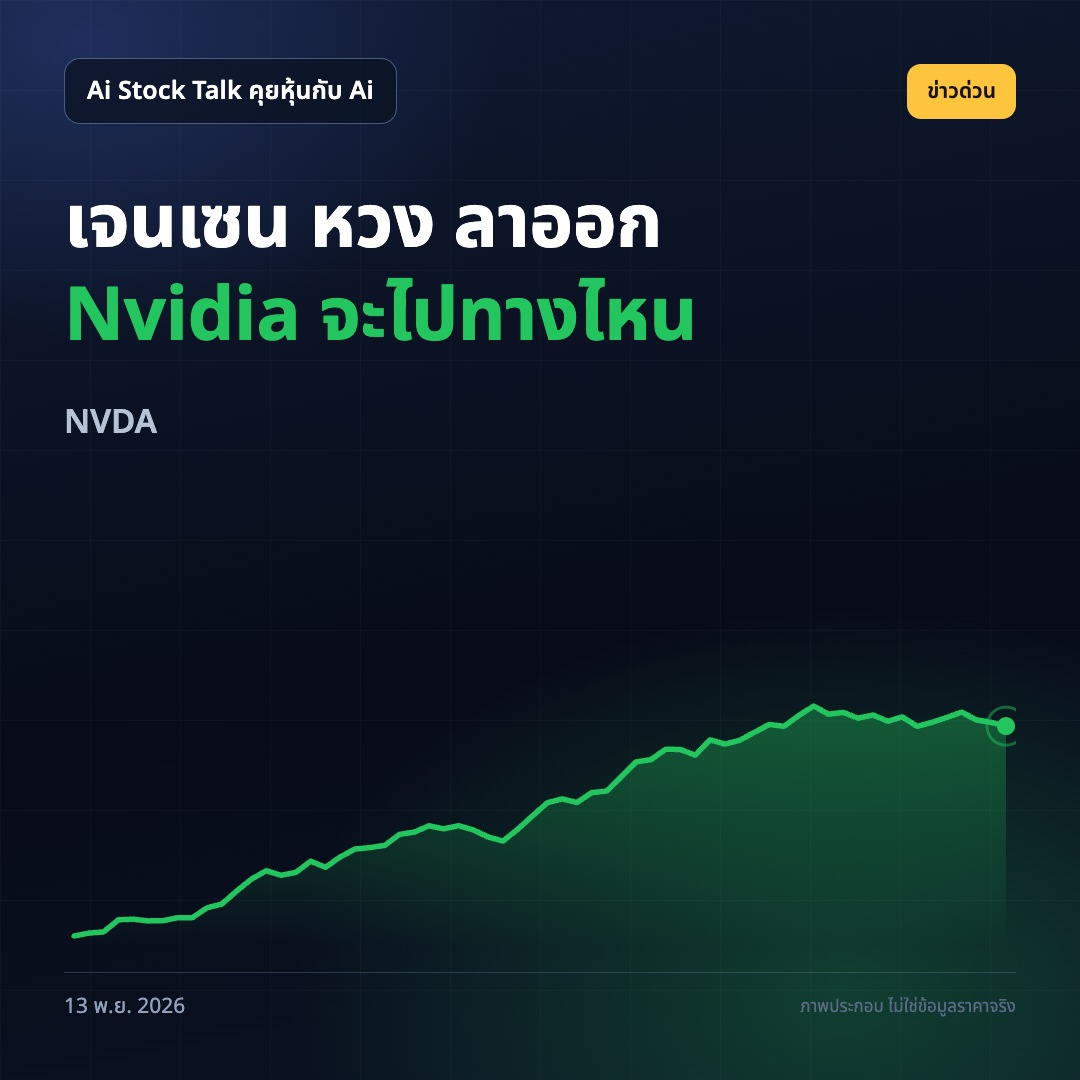
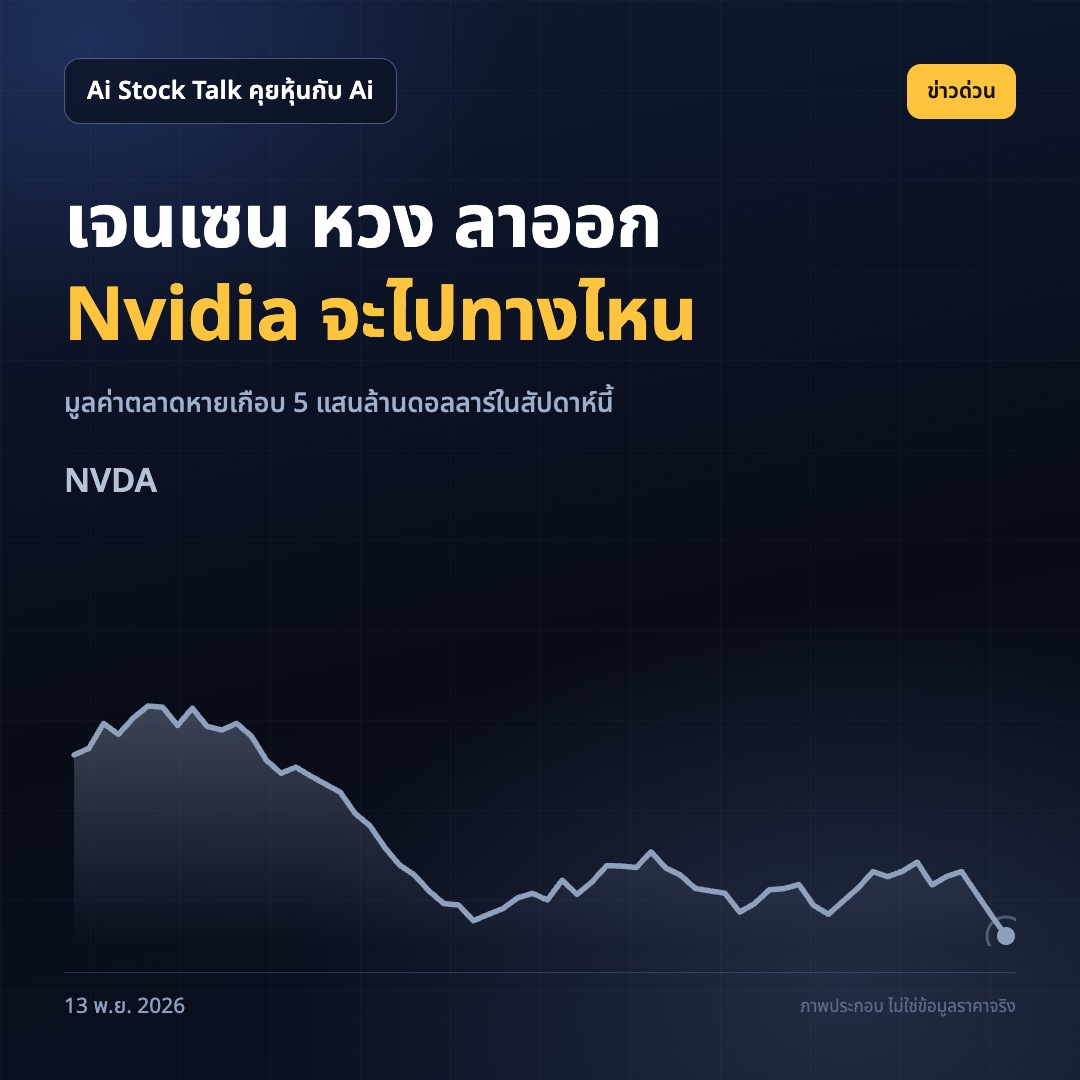
radar: 2026-11-14

diff --git a/docs/2026-11-14.html b/docs/2026-11-14.html
@@ -1,0 +1,73 @@
+<!doctype html>
+<html lang="th"><head>
+<meta charset="utf-8">
+<meta name="viewport" content="width=device-width,initial-scale=1">
+<title>Ai Stock Talk คุยหุ้นกับ Ai — 14 พ.ย. 2026</title>
+<meta name="description" content="Horizon AI News Radar — สรุปข่าว AI/เทคโนโลยี/การเงิน ภาษาไทยรายวัน">
+<meta property="og:title" content="Ai Stock Talk คุยหุ้นกับ Ai — 14 พ.ย. 2026">
+<meta property="og:description" content="สรุปข่าว AI/Tech/Finance ภาษาไทยรายวัน">
+<meta property="og:image" content="https://tstevy3a.github.io/horizon-ai-radar/img/cover-2026-11-14.jpg">
+<link rel="stylesheet" href="assets/style.css">
+</head><body><div class="wrap">
+<header class="top">
+  <a href="index.html" style="color:#fff;font-weight:700;font-size:16px">Horizon AI News Radar</a>
+  <span class="badge">รายวัน</span>
+</header>
+<h1>Ai Stock Talk คุยหุ้นกับ Ai — 14 พ.ย. 2026</h1>
+<p class="meta">เผยแพร่ 2026-11-14</p>
+<img class="cover" src="img/cover-2026-11-14.jpg" alt="ภาพปกข่าว 2026-11-14">
+<article><h2>1. หุ้น Nvidia ลงต่อเนื่อง 6 สัปดาห์</h2>
+<p><img alt="cover" src="img/post-1-cover-2026-11-14.jpg" /></p>
+<p>Nvidia ลงต่อ 6 สัปดาห์ มูลค่าตลาดหาย 5.73 แสนล้านดอลลาร์ในสัปดาห์เดียว
+นี่เป็นการปรับลงรายสัปดาห์ต่อเนื่องยาวนานที่สุดของหุ้นนับตั้งแต่ปี 2012 ขณะที่ข่าวเจนเซน หวง ลาออกจากตำแหน่งซีอีโอเพิ่มความกังวลให้ตลาด
+ตัวเลขมูลค่าที่หายไปสะท้อนแรงขายหุ้นผู้นำด้านชิป AI แต่ข้อมูลในข่าวยังไม่บอกว่าราคาหุ้นจะหยุดลงตรงไหน
+ทำไมต้องสน: คนไทยที่ถือหุ้นสหรัฐหรือกองทุนที่มี Nvidia ควรดูว่าสัดส่วนการลงทุนยังตรงกับความเสี่ยงที่รับไหวหรือไม่
+ถ้าคุณถือ Nvidia อยู่ ข่าวไหนกระทบการตัดสินใจมากกว่า ระยะเวลาที่หุ้นลงต่อเนื่องหรือการเปลี่ยนซีอีโอ?
+ที่มา: https://www.marketwatch.com/story/nvidias-stock-is-on-a-losing-streak-not-seen-in-14-years-what-comes-next-a07e801e?mod=mw_rss_topstories https://www.cnbc.com/2026/11/13/nvidia-stock-jensen-affair-ai.html</p>
+<h1>หุ้นสหรัฐ #เอ็นวิเดีย #หุ้นเอไอ</h1>
+<h2>2. สหรัฐสั่งหยุดเที่ยวบินทั่วประเทศหลังระบบสื่อสารขัดข้อง</h2>
+<p><img alt="cover" src="img/post-2-cover-2026-11-14.jpg" /></p>
+<p>เที่ยวบินสหรัฐล่าช้า 10,494 เที่ยว หลัง FAA สั่งหยุดบินขึ้น
+FAA สั่งระงับการบินขึ้นทั่วประเทศด้วยเหตุระบบโทรคมนาคมขัดข้อง ส่วนเครื่องบินที่อยู่กลางอากาศยังลงจอดได้ ตามข้อมูลที่รายงานในช่วงเกิดเหตุ มีเที่ยวบินถูกยกเลิกอีก 3,396 เที่ยว
+หน่วยงานสหรัฐระบุว่าไม่มีข้อบ่งชี้ว่าเป็นการโจมตี ขณะนี้ข้อมูลที่ให้มายังไม่ชี้ว่าระบบ AI จัดการจราจรทางอากาศเป็นต้นเหตุ
+ทำไมต้องสน: เหตุนี้แสดงให้เห็นว่าปัญหาระบบสื่อสารเพียงจุดเดียวอาจกระทบการเดินทางวงกว้าง ผู้ถือหุ้นธุรกิจการบินและท่องเที่ยวควรติดตามผลต่อเที่ยวบิน
+คุณคิดว่าหน่วยงานควรเปิดเผยรายละเอียดความขัดข้องอะไรเป็นอันดับแรก?
+ที่มา: https://www.theverge.com/news/1033489/faa-ground-stop https://arstechnica.com/tech-policy/2026/11/faa-orders-third-nationwide-ground-stop-in-its-history/</p>
+<h1>ข่าวเทคโนโลยี #การบิน #หุ้นสหรัฐ</h1>
+<h2>3. การลาออกของเจนเซน หวง เขย่าการลงทุนในสตาร์ตอัป AI</h2>
+<p><img alt="cover" src="img/post-3-cover-2026-11-14.jpg" /></p>
+<p>Nvidia เคยลงเงินหลายหมื่นล้านดอลลาร์ในสตาร์ตอัป AI
+หลังเจนเซน หวง ลาออกจากตำแหน่งซีอีโอ ผู้ก่อตั้งสตาร์ตอัปและนักลงทุนร่วมทุนเริ่มเตรียมรับความเป็นไปได้ว่าเงินลงทุนจาก Nvidia อาจลดลง
+รายงานระบุว่าในช่วงที่หวงบริหาร บริษัททุ่มเงินหลายหมื่นล้านดอลลาร์ให้ธุรกิจ AI แต่ยังไม่มีตัวเลขยืนยันว่าแผนลงทุนหลังเปลี่ยนผู้นำจะลดลงเท่าใด
+ทำไมต้องสน: หาก Nvidia เปลี่ยนวิธีลงทุน บริษัท AI ที่พึ่งเงินทุนก้อนใหญ่ย่อมต้องประเมินแผนใหม่ และผู้ถือหุ้น Nvidia ควรจับตาว่าผู้บริหารชุดต่อไปจะใช้เงินอย่างไร
+คุณอยากเห็น Nvidia ทุ่มเงินให้สตาร์ตอัปต่อ หรือให้ความสำคัญกับธุรกิจชิปของตัวเองมากกว่า?
+ที่มา: https://techcrunch.com/2026/11/13/jensen-huangs-departure-blasts-big-hole-in-ai-startup-funding-vcs-and-founders-say/</p>
+<h1>เอ็นวิเดีย #สตาร์ตอัปเอไอ #หุ้นเทคโนโลยี</h1>
+<h2>4. บิตคอยน์ต่ำกว่า 69,000 ดอลลาร์ ท่ามกลางคำถามเรื่องเงินไหลไปหุ้นใหม่</h2>
+<p><img alt="cover" src="img/post-4-cover-2026-11-14.jpg" /></p>
+<p>บิตคอยน์ต่ำกว่า 69,000 ดอลลาร์
+รายงานตั้งข้อสังเกตว่า นักลงทุนบางส่วนอาจขายสินทรัพย์คริปโตเพื่อเตรียมเงินสำหรับการเสนอขายหุ้นของ Anthropic ซึ่งยังเป็นเพียงความเป็นไปได้
+ข้อมูลที่ให้มาไม่ได้ยืนยันว่ามีการขายบิตคอยน์เพื่อซื้อหุ้นดังกล่าวจริง และไม่ได้ระบุว่าการเสนอขายหุ้นจะเกิดขึ้นเมื่อใด
+ทำไมต้องสน: คนไทยที่ถือทั้งคริปโตและหุ้นเทคควรแยกการเคลื่อนไหวของราคาออกจากคำอธิบายที่ยังไม่มีหลักฐานรองรับ ก่อนปรับสัดส่วนในพอร์ต
+ถ้าต้องเตรียมเงินสำหรับโอกาสลงทุนใหม่ คุณจะลดสินทรัพย์เดิมในพอร์ตส่วนไหนก่อน?
+ที่มา: https://www.marketwatch.com/story/bitcoin-could-fall-even-further-if-investors-cash-out-to-buy-into-the-anthropic-ipo-5a14f46a?mod=mw_rss_topstories</p>
+<h1>บิตคอยน์ #คริปโต #พอร์ตลงทุน</h1>
+<h2>5. ระบบ AI จัดการน่านฟ้าสหรัฐขยายใช้งาน ท่ามกลางคำถามเรื่องการทดสอบ</h2>
+<p><img alt="cover" src="img/post-5-cover-2026-11-14.jpg" /></p>
+<p>FAA ขยายระบบ AI มูลค่า 875 ล้านดอลลาร์ทั่วน่านฟ้าสหรัฐ
+ระบบ SMART ใช้ให้คำแนะนำผู้ควบคุมจราจรทางอากาศเพื่อช่วยจัดการความหนาแน่นของเที่ยวบิน FAA ระบุว่าระบบเคยช่วยเปลี่ยนเส้นทางบิน 180 เที่ยว หลังเริ่มใช้ในน่านฟ้าแถบกรุงวอชิงตัน
+FAA อ้างว่าประหยัดเวลาเฉลี่ย 10 นาทีต่อเที่ยวและเชื้อเพลิงเกือบ 80 แกลลอนต่อเที่ยว ขณะที่สหภาพผู้ควบคุมจราจรทางอากาศบอกว่าไม่ได้ร่วมออกแบบหรือทดสอบระบบ
+ทำไมต้องสน: ตัวเลขประสิทธิภาพทำให้เห็นโอกาสของ AI ในโครงสร้างพื้นฐาน แต่การนำไปใช้ทั่วประเทศก็ควรมีคำตอบชัดเจนเรื่องการทดสอบ
+คุณอยากเห็นหลักฐานแบบไหนก่อนให้ระบบ AI ช่วยงานที่เกี่ยวกับความปลอดภัยการบิน?
+ที่มา: https://arstechnica.com/features/2026/11/faa-expands-ai-advice-to-manage-air-traffic-congestion-across-entire-us-airspace/</p>
+<h1>เอไอ #การบิน #เทคโนโลยี</h1>
+<p><img alt="cover" src="img/post-6-cover-2026-11-14.jpg" /></p>
+<p>ก่อนชำระเงินแต่ละครั้ง เอเจนต์ต้องกลับมาขอความเห็นชอบจากผู้ใช้ และการซื้อทุกครั้งต้องผ่านการตรวจสอบตัวตนด้วยข้อมูลชีวมิติ เช่น ใบหน้าหรือลายนิ้วมือ
+ทำไมต้องสน: AI กำลังขยับจากช่วยค้นข้อมูลไปสู่ขั้นตอนจ่ายเงิน คนที่ติดตามหุ้นเทคควรดูว่ารูปแบบนี้จะเปลี่ยนวิธีซื้อสินค้าออนไลน์หรือไม่
+ถ้าใช้ได้ในไทย คุณจะให้เอเจนต์ช่วยซื้อสินค้าประเภทไหนเป็นอย่างแรก?</p>
+<h1>แชตจีพีที #เอไอ #อีคอมเมิร์ซ</h1></article>
+<footer>
+  สร้างอัตโนมัติจาก Horizon AI News Radar · <a href="https://tstevy3a.github.io/horizon-ai-radar/">หน้าแรก</a><br>
+  แหล่งข่าว: Hacker News, TechCrunch, The Verge, Ars Technica, CNBC, MarketWatch, Blognone
+</footer>
+</div></body></html>

diff --git a/docs/index.html b/docs/index.html
@@ -13,7 +13,8 @@
   <a href="index.html" style="color:#fff;font-weight:700;font-size:16px">Horizon AI News Radar</a>
   <span class="badge">รายวัน</span>
 </header>
-<h1>Ai Stock Talk คุยหุ้นกับ Ai — 13 พ.ย. 2026</h1><p class="meta">ฉบับล่าสุด 2026-11-13</p><a class="card" href="2026-11-13.html"><div class="t">อ่านฉบับเต็ม →</div></a><h2 style='font-size:19px;margin-top:34px'>ย้อนหลัง</h2><a class="card" href="2026-11-13.html"><div class="d">2026-11-13</div><div class="t">Ai Stock Talk คุยหุ้นกับ Ai — 13 พ.ย. 2026</div><div class="s"></div></a>
+<h1>Ai Stock Talk คุยหุ้นกับ Ai — 14 พ.ย. 2026</h1><p class="meta">ฉบับล่าสุด 2026-11-14</p><a class="card" href="2026-11-14.html"><div class="t">อ่านฉบับเต็ม →</div></a><h2 style='font-size:19px;margin-top:34px'>ย้อนหลัง</h2><a class="card" href="2026-11-14.html"><div class="d">2026-11-14</div><div class="t">Ai Stock Talk คุยหุ้นกับ Ai — 14 พ.ย. 2026</div><div class="s"></div></a>
+<a class="card" href="2026-11-13.html"><div class="d">2026-11-13</div><div class="t">Ai Stock Talk คุยหุ้นกับ Ai — 13 พ.ย. 2026</div><div class="s"></div></a>
 <footer>
   สร้างอัตโนมัติจาก Horizon AI News Radar · <a href="https://tstevy3a.github.io/horizon-ai-radar/">หน้าแรก</a><br>
   แหล่งข่าว: Hacker News, TechCrunch, The Verge, Ars Technica, CNBC, MarketWatch, Blognone

diff --git a/README.md b/README.md
@@ -2,4 +2,5 @@
 
 สรุปข่าวภาษาไทยรายวัน
 
+- [2026-11-14 — Ai Stock Talk คุยหุ้นกับ Ai — 14 พ.ย. 2026](https://tstevy3a.github.io/horizon-ai-radar/2026-11-14.html)
 - [2026-11-13 — Ai Stock Talk คุยหุ้นกับ Ai — 13 พ.ย. 2026](https://tstevy3a.github.io/horizon-ai-radar/2026-11-13.html)
